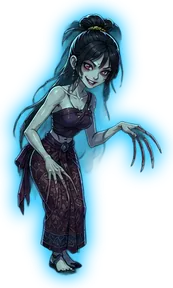
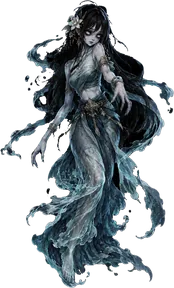
Use painted boss art; stage 3 boss is now ผีตายทั้งกลม
- Replace the placeholder boss images (recoloured ghost art) with the
  supplied paintings for ผีพรายเจ้าแม่น้ำ, ผีสมิง and its tiger form; the
  tiger is mirrored to face left, the direction ghosts walk.
- Stage 3 boss นางรำเฝ้าประตู becomes ผีตายทั้งกลม with its own art. It
  keeps the lane-wide charm (now a wail), and the stage 3 achievement and
  README follow. The regular ผีนางรำ ghost is unchanged.

Claude-Session: https://claude.ai/code/session_0164KcjakhskHZ8faDZECF7U

diff --git a/src/game/config.ts b/src/game/config.ts
@@ -52,7 +52,7 @@ export interface BossConfig {
 }
 
 export const BOSSES: BossConfig[] = [
-  { stage: 3, name: 'นางรำเฝ้าประตู', emoji: '💃', hp: 720, speed: 7, damage: 18, reward: 120, description: 'บอสประจำด่าน 3 — ร่ายรำสะกดผู้พิทักษ์ในเลนให้หยุดโจมตี 3 วินาที', ability: 'charm', art: 'nangram-boss' },
+  { stage: 3, name: 'ผีตายทั้งกลม', emoji: '👻', hp: 720, speed: 7, damage: 18, reward: 120, description: 'บอสประจำด่าน 3 — ส่งเสียงคร่ำครวญสะกดผู้พิทักษ์ทั้งเลนให้หยุดโจมตี 3 วินาที', ability: 'charm', art: 'tai-thang-klom' },
   { stage: 6, name: 'ผีพรายเจ้าแม่น้ำ', emoji: '🌊', hp: 1250, speed: 6, damage: 24, reward: 220, description: 'โจมตีน้ำเป็นระลอก สร้างความเสียหายแก่ผู้พิทักษ์ทั่วทั้งแผนที่', ability: 'waterSurge', art: 'phrai' },
   { stage: 9, name: 'ผีสมิง', emoji: '🐅', hp: 2200, speed: 8, damage: 30, reward: 500, description: 'สลับร่างคนกับร่างเสือ และเรียกเสือบริวารเข้าช่วยรบ', ability: 'tigerShift', art: 'saming' },
 ];

diff --git a/src/game/progress.ts b/src/game/progress.ts
@@ -52,7 +52,7 @@ const stageWon = (p: PlayerProgress, stage: number) => (p.bestByStage[String(sta
 
 export const ACHIEVEMENTS: Achievement[] = [
   { id: 'first-win', icon: '🏮', name: 'หมอผีฝึกหัด', description: 'ชนะด่านแรกได้สำเร็จ', earned: (p) => p.wins >= 1 },
-  { id: 'boss-3', icon: '💃', name: 'ผ่านประตูวัดร้าง', description: 'ชนะบอสนางรำเฝ้าประตูในด่าน 3', earned: (p) => stageWon(p, 3) },
+  { id: 'boss-3', icon: '👻', name: 'ผ่านประตูวัดร้าง', description: 'ชนะบอสผีตายทั้งกลมในด่าน 3', earned: (p) => stageWon(p, 3) },
   { id: 'boss-6', icon: '🌊', name: 'สงบคลื่นผีพราย', description: 'ชนะบอสผีพรายเจ้าแม่น้ำในด่าน 6', earned: (p) => stageWon(p, 6) },
   { id: 'boss-9', icon: '🐅', name: 'ปราบผีสมิง', description: 'ชนะบอสสุดท้ายในด่าน 9', earned: (p) => stageWon(p, 9) },
   { id: 'three-stars', icon: '⭐', name: 'ป้องกันไร้รอยขีดข่วน', description: 'ได้ 3 ดาวในด่านใดก็ได้', earned: (p) => Object.values(p.starsByStage).some((stars) => stars >= 3) },

diff --git a/src/game/GameScene.ts b/src/game/GameScene.ts
@@ -506,7 +506,7 @@ export class GameScene extends Phaser.Scene {
       for (const plant of victims) plant.charmedUntil = Math.max(plant.charmedUntil, now + 3000);
       const ring = this.add.circle(ghost.x, ghost.y, 30, 0xff9be6, 0.16).setStrokeStyle(4, 0xffc4f0, 0.9).setDepth(15);
       this.tweens.add({ targets: ring, scaleX: 14, scaleY: 1.4, alpha: 0, duration: 700, onComplete: () => ring.destroy() });
-      this.game.events.emit('toast', '💃 นางรำร่ายรำสะกด! ผู้พิทักษ์ในเลนหยุดโจมตี 3 วินาที');
+      this.game.events.emit('toast', '👻 ผีตายทั้งกลมคร่ำครวญ! ผู้พิทักษ์ในเลนถูกสะกด หยุดโจมตี 3 วินาที');
     }
     if (ghost.boss?.ability === 'waterSurge' && ghost.bossAbilityElapsed >= 3200) {
       ghost.bossAbilityElapsed = 0;

diff --git a/src/game/config.test.ts b/src/game/config.test.ts
@@ -94,8 +94,8 @@ describe('game configuration', () => {
   it('defines bosses for stages 3, 6 and 9 with the requested mechanics', () => {
     expect(BOSSES.map((boss) => boss.stage)).toEqual([3, 6, 9]);
     expect(BOSSES.map((boss) => boss.ability)).toEqual(['charm', 'waterSurge', 'tigerShift']);
-    expect(BOSSES.map((boss) => boss.art)).toEqual(['nangram-boss', 'phrai', 'saming']);
-    expect(BOSSES[0].name).toContain('นางรำ');
+    expect(BOSSES.map((boss) => boss.art)).toEqual(['tai-thang-klom', 'phrai', 'saming']);
+    expect(BOSSES[0].name).toBe('ผีตายทั้งกลม');
     expect(BOSSES[1].name).toContain('ผีพราย');
     expect(BOSSES[2].name).toContain('สมิง');
     expect(BOSSES.every((boss) => boss.hp > 0 && boss.damage > 0 && boss.reward > 0)).toBe(true);

diff --git a/src/data/ghostArt.ts b/src/data/ghostArt.ts
@@ -10,7 +10,7 @@ export const ghostTextureKey = (id: GhostId): string => `ghost-${id}`;
 export const bossTextureKey = (art: string): string => `boss-${art}`;
 
 /** All boss artwork files, including the Saming tiger form used after its first defeat. */
-export const BOSS_ART = ['nangram-boss', 'phrai', 'saming', 'saming-tiger'] as const;
+export const BOSS_ART = ['tai-thang-klom', 'phrai', 'saming', 'saming-tiger'] as const;
 
 export function ghostPortraitStyle(id: GhostId): CSSProperties {
   return {

diff --git a/README.md b/README.md
@@ -21,7 +21,7 @@
 | ผีหัวขาด | ผู้พิทักษ์ในรัศมีหวาดกลัว โจมตีช้าลงครึ่งหนึ่ง |
 | ผีโขมด | แปลงเป็นควันทุก 7 วินาที ลดความเสียหาย 60% นาน 2 วินาที |
 
-- บอสด่าน 3 / 6 / 9: นางรำเฝ้าประตู (สะกดผู้พิทักษ์ทั้งเลน 3 วินาที), ผีพรายเจ้าแม่น้ำ (คลื่นน้ำทั่วสนาม), ผีสมิง (กลายร่างเป็นเสือพร้อมเสือบริวาร)
+- บอสด่าน 3 / 6 / 9: ผีตายทั้งกลม (คร่ำครวญสะกดผู้พิทักษ์ทั้งเลน 3 วินาที), ผีพรายเจ้าแม่น้ำ (คลื่นน้ำทั่วสนาม), ผีสมิง (กลายร่างเป็นเสือพร้อมเสือบริวาร)
 - ผีที่ผ่านฐานทำให้เสียพลังชีวิตฐาน 1 (บอส 2)
 - คลังคำถาม ป.2 ในตัว 75 ข้อ (5 วิชา × ง่าย/ปานกลาง/ยาก อย่างละ 5) ด่าน 1–3 ถามระดับง่าย ด่าน 4–6 ง่าย+ปานกลาง ด่าน 7–9 ปานกลาง+ยาก (หมดแล้วจึงใช้ระดับอื่น)
 - หน้า **ความสำเร็จ**: คะแนนความรู้ (ตอบถูก 10 + โบนัสต่อเนื่อง), สถิติดีที่สุดรายด่าน, ความแม่นยำรายวิชาพร้อมบอกวิชาที่ควรฝึกเพิ่ม และเหรียญความสำเร็จ 12 แบบ
@@ -33,7 +33,7 @@
 - Import/Export ชุดคำถาม JSON/CSV และไฟล์สำรองทั้งระบบ
 - IndexedDB บันทึกชุดคำถาม คะแนน ดาว ด่านที่ปลดล็อก และการตั้งค่า
 - PWA Service Worker precache สำหรับไฟล์ build เพื่อเปิดแอปหลังติดตั้งและเตรียมแคชแล้ว
-- ไม่มีภาพ/ฟอนต์/CDN ภายนอกที่จำเป็นระหว่างเล่น; ภาพผีและบอสเป็นไฟล์ WebP ใน `public/ghosts` และ `public/bosses` ซึ่ง Service Worker precache ไว้ (ภาพสมิงร่างเสือและลายเสือยังเป็นภาพชั่วคราว)
+- ไม่มีภาพ/ฟอนต์/CDN ภายนอกที่จำเป็นระหว่างเล่น; ภาพผีและบอสเป็นไฟล์ WebP ใน `public/ghosts` และ `public/bosses` ซึ่ง Service Worker precache ไว้
 
 ## ต้องมี
 
